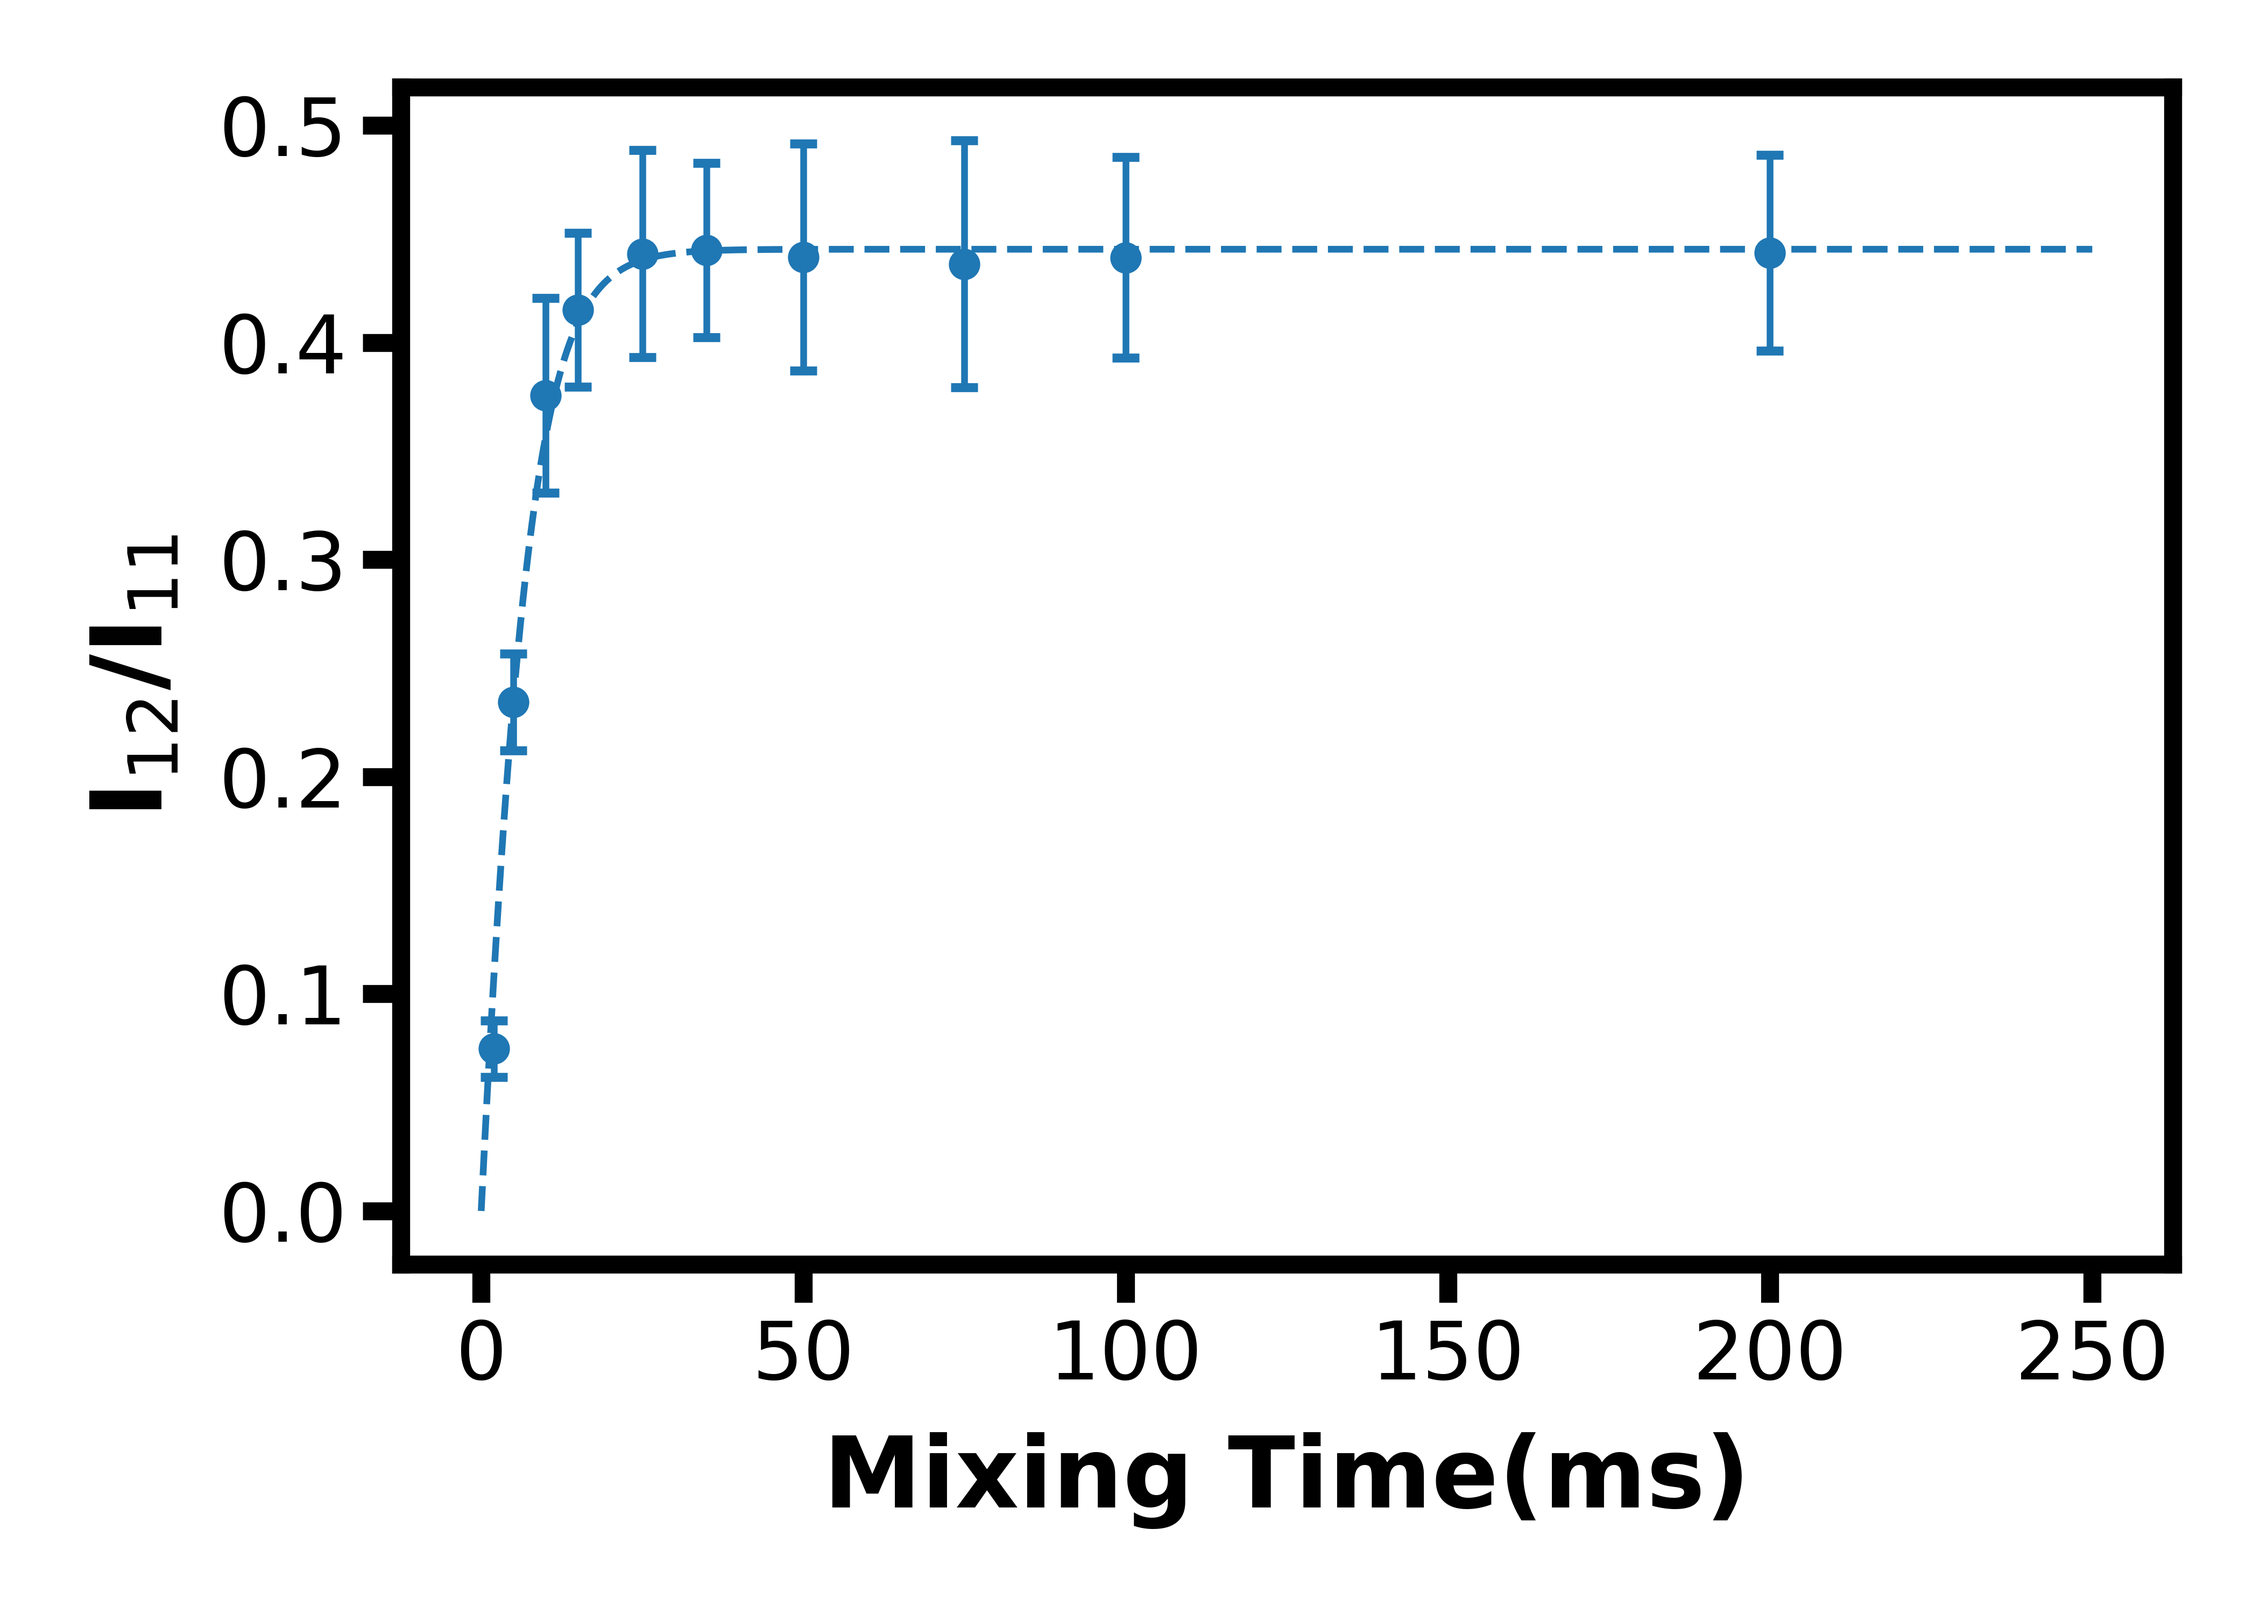
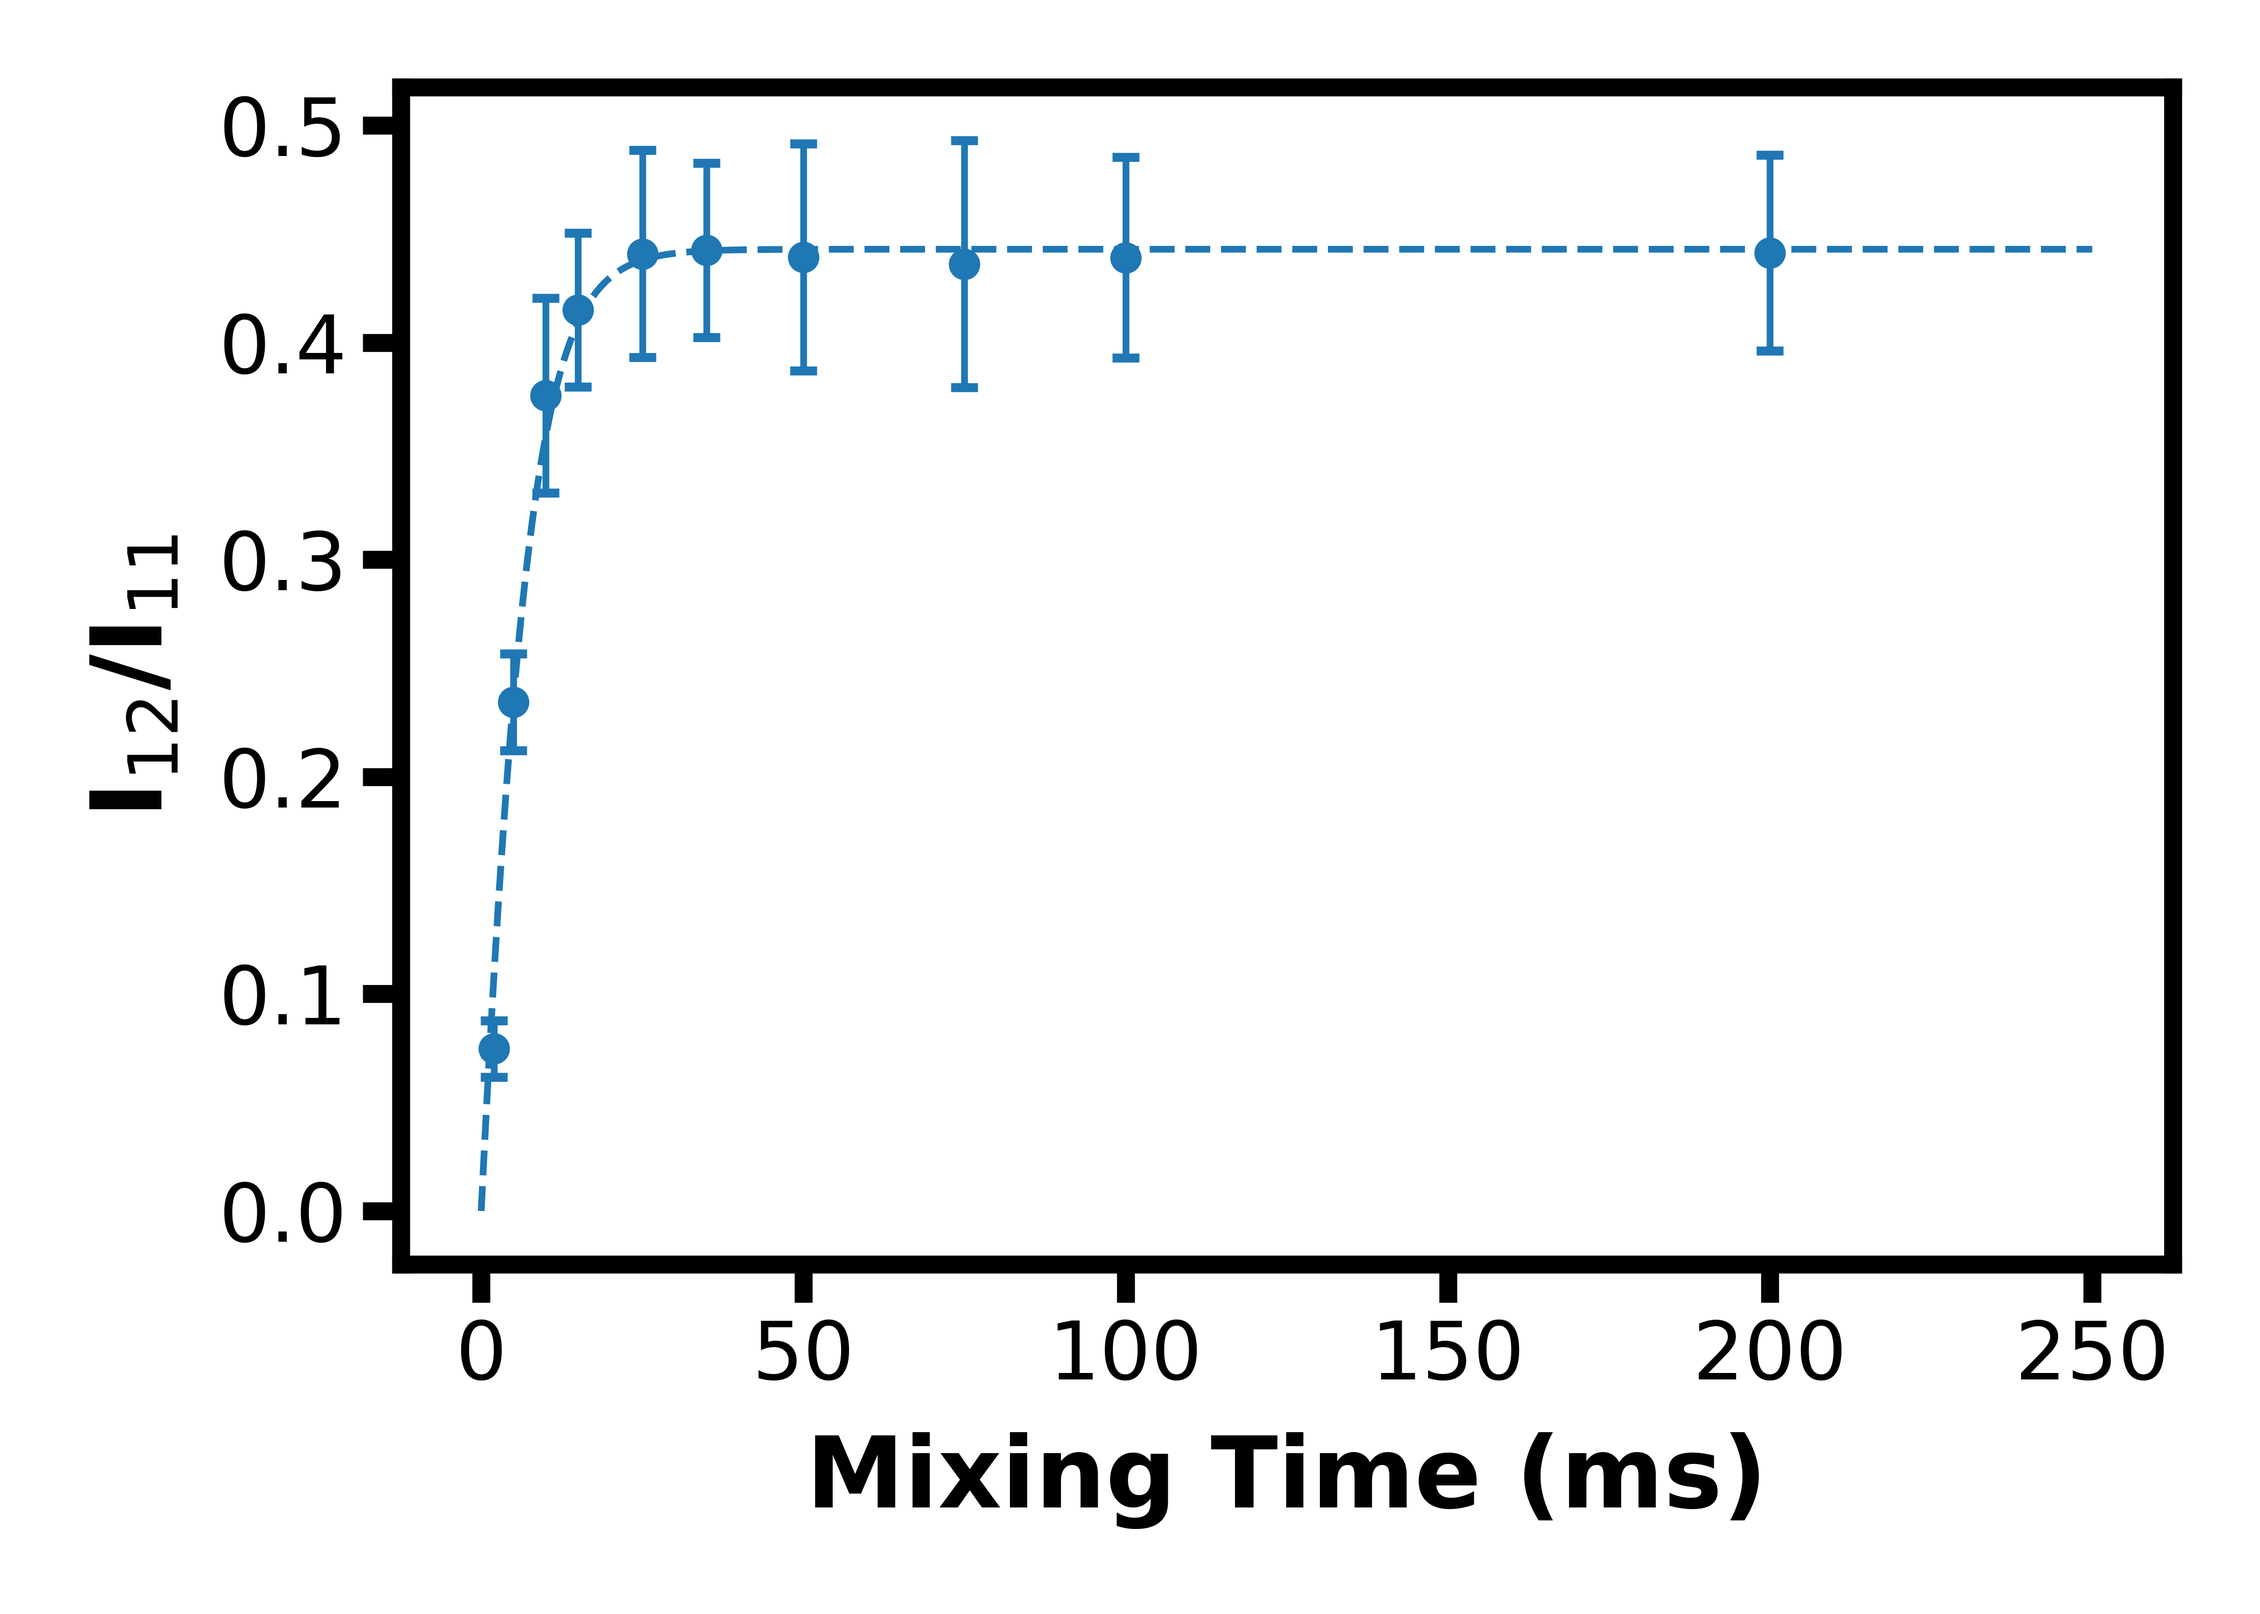
small updates to poster 1d thickness

Changed region(s): [[0.3431, 0.868, 0.7798, 0.961]]

diff --git a/1d_nmr_plot.py b/1d_nmr_plot.py
@@ -72,7 +72,7 @@ def plot_1d(path, ax=None, label=None, color="magenta", scale=None, xlim=(-120, 
     uc = ng.pipe.make_uc(dic, data)
 
     # plot the spectrum
-    ax.plot(uc.ppm_scale(), data, color=color, label=label)
+    ax.plot(uc.ppm_scale(), data, color=color, label=label, lw=3.5)
 
     # decorate axes
     ax.set_yticklabels([])
@@ -107,4 +107,4 @@ plot_1d("ctd/600-2/DTY-CaCTD-F-12152022/2/test.DAT", ax=ax, label=f"{f_pos}", xl
 fig.tight_layout()
 #plt.show()
 #fig.savefig(f"figures/1d_ctd_{f_pos}_1024NS.svg", dpi=300, transparent=True)
-fig.savefig(f"ctd/figures/poster_1d_ctd_{f_pos}_1024NS.pdf", dpi=600, transparent=True)
+fig.savefig(f"ctd/figures/poster_1d_ctd_{f_pos}_1024NS.png", dpi=900, transparent=True)

diff --git a/ctd/fit_exsy.py b/ctd/fit_exsy.py
@@ -27,8 +27,8 @@ times = np.array([2, 5, 10, 15, 25, 35, 50, 75, 100, 200])
 fig, ax = plt.subplots()
 #ax.scatter(times, ratios)
 ax.errorbar(times, ratios[:,0], yerr=ratios[:,1], fmt="o", capsize=3, capthick=2)
-#ax.set(xlabel="Mixing Time(s)", ylabel="I$_{12}$/I$_{11}$", title=f"{f_pos}-CA-CTD")
-ax.set(xlabel="Mixing Time(ms)", ylabel="I$_{12}$/I$_{11}$")
+#ax.set(xlabel="Mixing Time (s)", ylabel="I$_{12}$/I$_{11}$", title=f"{f_pos}-CA-CTD")
+ax.set(xlabel="Mixing Time (ms)", ylabel="I$_{12}$/I$_{11}$")
 
 def calc_iratio(t_m, k_12, k_21):
     """
